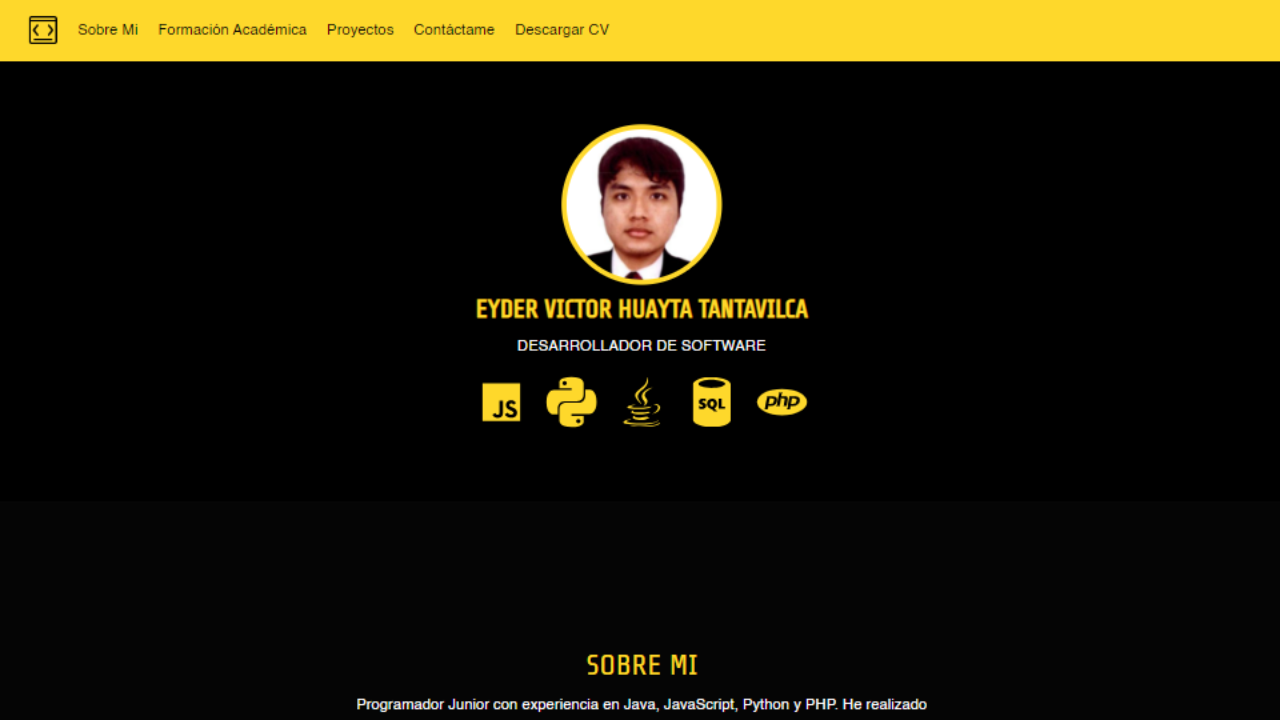
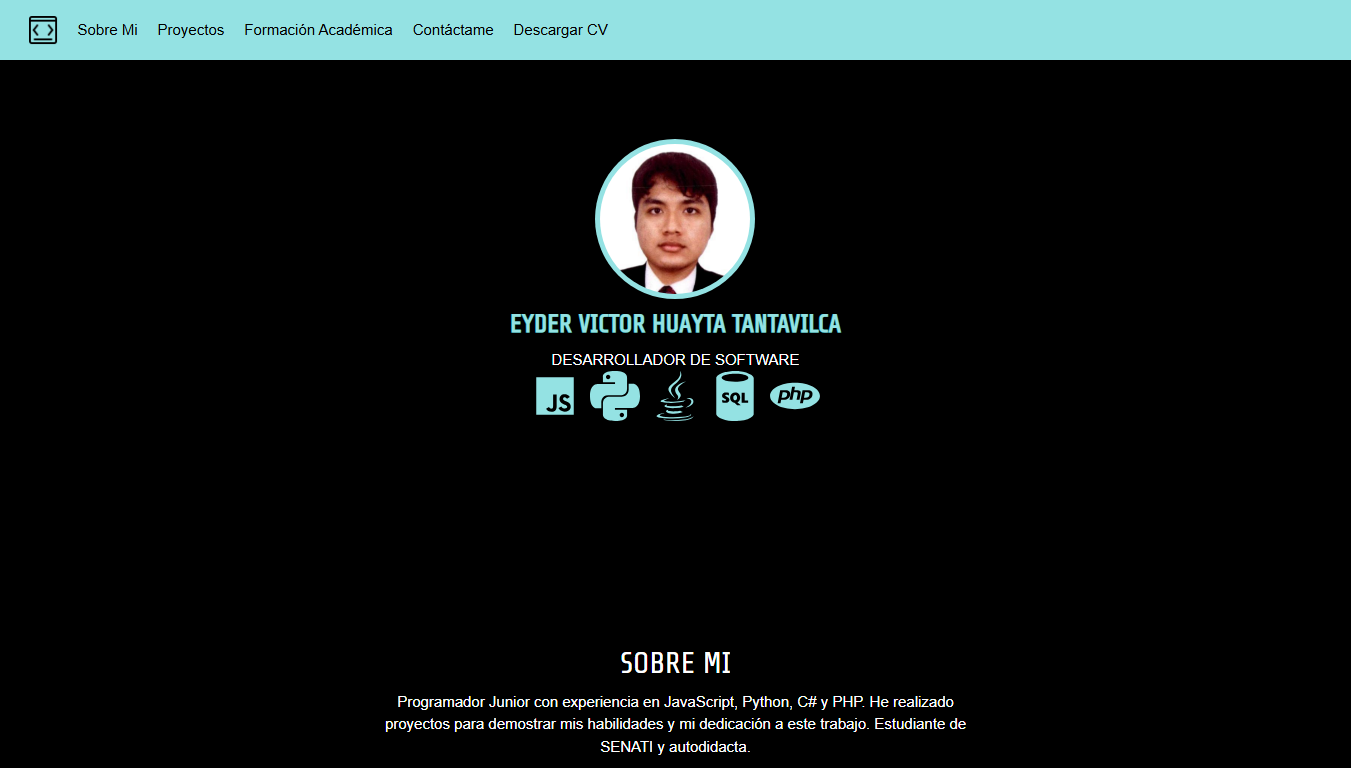
update style

Changed region(s): [[0.0, 0.0, 1.0, 0.0917], [0.375, 0.1528, 0.6562, 0.6111], [0.2812, 0.825, 0.7188, 1.0]]

diff --git a/styles/styles.css b/styles/styles.css
@@ -173,7 +173,7 @@ section.proyectos{
     transition: ease 0.2s;
 }
 .img-repo:hover {
-    scale: 1.5;
+    scale: 2;
 }
 /* Parte inferior del repositorio  */
 .footer-repo {
@@ -238,7 +238,7 @@ section.proyectos{
 /* ------------------------------------------------- Seccion Contactos ------------------------------------------------- */
 /* Separacion de los objetos de contactos */
 .contactos {
-    height: 400px;
+    min-height: 400px;
     padding: 20px;
     background-color: #000000;
     display: flex;
@@ -275,6 +275,9 @@ h5 {
     .navbar-brand{
         display: none;
     }
+    .img-repo:hover {
+        scale: 1.1;
+    }
 }
 /* Quitar texto de los contactos y bajar el tamaño de los iconnos */
 @media screen and (max-width: 284px) {
@@ -285,4 +288,8 @@ h5 {
         margin: 10px;
         max-width: 30px;
     }
+}
+
+.options-var {
+    background-color: var(--color-p);
 }

diff --git a/index.html b/index.html
@@ -34,7 +34,7 @@
 <body>
 	<!---------------------------------------------------------- Barra de Navegación ---------------------------------------------------------->
 	<nav class="navbar navbar-expand-md">
-		<div class="container-fluid">
+		<div class="container-fluid options-var">
 			<!--------------------------------- Boton para mostrar las opciones en modo Movil -------------------------->
 			<!-- data-bs-toggle -> Expandir opciones -->
 			<!-- target -> Elegir el div que se va a expandir -->
